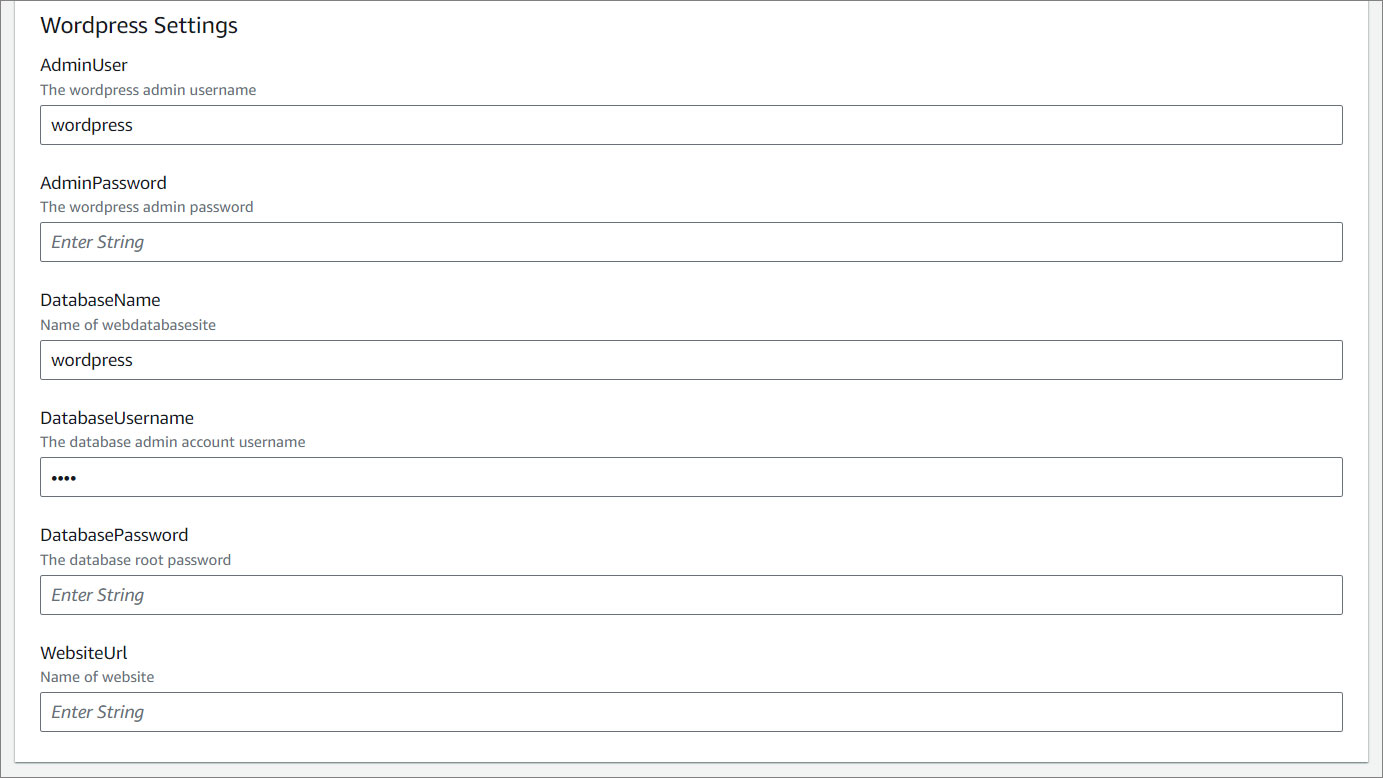
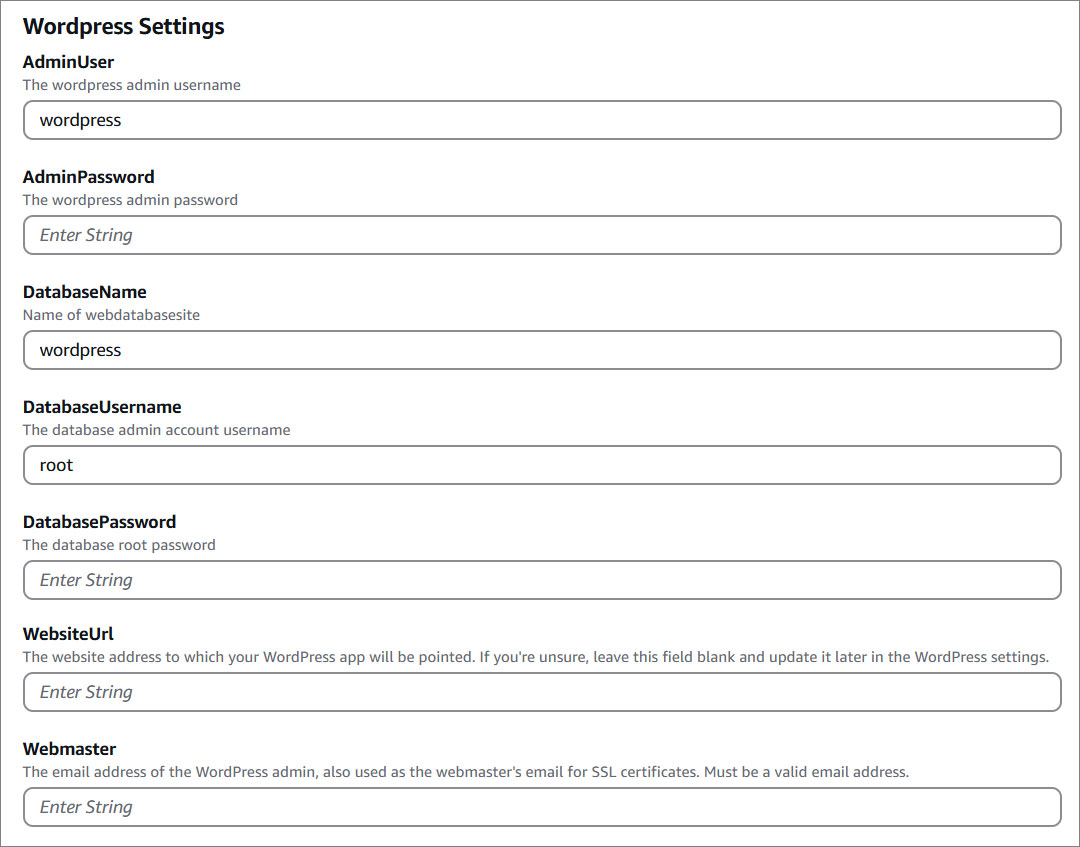
Update wordpress and tutorials.

Changed region(s): [[0.0, 0.0, 1.0, 0.9871]]

diff --git a/src/tutorials/wordpress/index.md b/src/tutorials/wordpress/index.md
@@ -74,11 +74,76 @@ If your AWS region is different from `us-east-1`, make sure to select your speci
 
 2. Click <span class="text-orange">**Next**</span>.
 
-3. Follow the steps.
+#### Provide a stack name
+
+1. Stack name must be 1 to 128 characters, start with a letter, and only contain alphanumeric characters.
+
+<p><img src="/static/images/tutorials/wordpress/wordpress-cdn-stack-name.jpg" alt="WordPress Pro CDN Create Stack" style="width: 50%;"></p>
+
+##### Parameters
+
+<p><img src="/static/images/tutorials/wordpress/wordpress-cdn-stack-parametes.jpg" alt="WordPress Pro CDN Parameters" style="width: 50%;"></p>
+
+Name   | Description
+---    | ---
+CloudFront Certificate ARN | The AWS Certification Manager certificate ARN for the CloudFront distribution certificate. To find the certificate navigate to **Certificate Manager,** click on the respective domain name and copy the **ARN.**
+Website Domain Name | The domain name of the Wordpress website (e.g. example.com).
+CMS DNS Name | The Wordpress DNS or IP used to login. To find the DNS navigate to **EC2,** click on the respective instance and copy the **Public IPv4 DNS.**
+
+#### Configure Stack Options
+
+1. Add a new tag. **This step is optional**.
+
+Tags (key-value pairs) are used to apply metadata to AWS resources, which can help in organizing, identifying, and categorizing those resources. You can add up to 50 unique tags for each stack. If you need more information about tags, click here.
+
+<p><img src="/static/images/quickstart/stack-tags.jpg" alt="WordPress Pro tags" style="width: 80%;"></p>
+
+2. Specify an existing AWS Identity and Access Management (IAM) service role that CloudFormation can assume. **This step is optional**.
+
+<p><img src="/static/images/quickstart/stack-permissions.jpg" alt="WordPress Pro permissions" style="width: 80%;"></p>
+
+3. Select the stack failure options.
+
+<p><img src="/static/images/quickstart/stack-failure.jpg" alt="WordPress Pro failure" style="width: 80%;"></p>
+
+Name   | Description
+---    | ---
+Behavior on provisioning failure | Specify the roll back behavior for a stack failure..
+Delete newly created resources during a rollback | Specify whether resources that were created during a failed operation should be deleted regardless of their deletion policy.
+
+To learn more about the stack failure options, <a href="https://docs.aws.amazon.com/AWSCloudFormation/latest/UserGuide/stack-failure-options.html" target="_blank">click here :icon-link-external:</a>.
+
+#### Advanced options
+
+1. You can set additional options for your stack, like notification options and a stack policy. For more information, <a href="https://docs.aws.amazon.com/AWSCloudFormation/latest/UserGuide/cfn-console-add-tags.html" target="_blank">click here :icon-link-external:</a>.
+
+<p><img src="/static/images/quickstart/stack-advanced.jpg" alt="WordPress Pro advanced options" style="width: 50%;"></p>
+
+2. Click <span class="text-orange">**Next**</span>.
+
+### Review and create
+
+1. Review your settings.
+
+2. Click <span class="text-orange">**Submit**</span>.
+
+### Stacks
+
+1. <span class="text-orange">**Watch your CDN being created!**</span> Once the status changes from **CREATE_IN_PROGRESS** to **CREATE_COMPLETE**, you can access your CDN.
+
+<p><img src="/static/images/tutorials/wordpress/wp-cdn-stack.jpg" alt="WordPress Pro CDN Stack" style="width: 70%;"></p>
 
 {% endtab %}
 
 {% endtabs %}
+
+<!-- ## Point Domain
+
+1. Navigate to **CloudFront** by searching for it in the Services menu.
+
+2. Click on the corresponding **Distribution**.
+
+3.  -->
 
 <hr>
 

diff --git a/src/quickstart/cms/wordpress/index.md b/src/quickstart/cms/wordpress/index.md
@@ -108,9 +108,26 @@ AdminPassword | The admin password to login onto your WordPress.
 DatabaseName | The web database name.
 DatabaseUsername | The database admin account username.
 DatabasePassword | The database root password.
-WebsiteUrl | Name of initial WordPress website.
+WebsiteUrl | The website address to which your WordPress app will be pointed. If you're unsure, leave this field blank and update it later in the WordPress settings.
+Webmaster | The email address of the WordPress admin, also used as the webmaster's email for SSL certificates. Must be a valid email address.
 
-3. Click <span class="text-orange">**Next**</span>.
+3. Optional: SSO.
+
+<p><img src="/static/images/wordpress/wordpress-optional-settings.jpg" alt="WordPress Pro Optional Settings" style="width: 50%;"></p>
+
+Name   | Description
+---    | ---
+SsoClientId | The client ID registered with your OpenID Connect (OIDC) provider.
+SsoClientSecret | The client secret associated with the registered client ID at your OpenID Connect (OIDC) provider.
+SsoAuthorizeUrl | The authorization URL used for OpenID Connect authentication requests. This value can be found in the provider's Well-Known Configuration Endpoint endpoint under the "authorization_endpoint" field.
+SsoAccessToken | The endpoint URL for obtaining the access token in the OpenID Connect flow. This value can be found in the provider's Well-Known Configuration Endpoint endpoint under the "token_endpoint" field.
+SsoResourceOwner | The URL to retrieve user information from the OpenID Connect provider. This value can be found in the provider's Well-Known Configuration Endpoint endpoint under the "userinfo_endpoint" field.
+SsoApiToken | The API token used when connecting your WordPress app to Solodev Cloud. If you are not using Solodev Cloud, you can leave this empty. To find your API token, go to your Profile and click on "API Tokens."
+SsoScope | The scope that define the permissions requested during the OpenID Connect authentication. Specify the scopes separated by spaces. This app requires at least the following scopes: "openid email profile roles."
+SsoRedirectUri | The URI where users will be redirected after successful authentication. For this integration, it must be set to [https://your-wordpress-domain.com/wp-json/wp_SSO/login](https://your-wordpress-domain.com/wp-json/wp_SSO/login).
+SsoKeySet | The URL where the public keys for verifying the OpenID Connect tokens are hosted. This value can be found in the provider's Well-Known Configuration Endpoint endpoint under the "jwks_uri" field.
+
+4. Click <span class="text-orange">**Next**</span>.
 
 #### Configure Stack Options
 

diff --git a/src/quickstart/cms/drupal/index.md b/src/quickstart/cms/drupal/index.md
@@ -340,23 +340,23 @@ Ensure that your browser's address bar includes "http://" instead of "https://."
 
 {% endtabs %}
 
-<!-- ## Next Steps -->
+## Next Steps
 
-<!-- <div class="card-lg" style="margin-bottom: 1.5rem;">
+<div class="card-lg" style="margin-bottom: 1.5rem;">
   <div style="display: flex; align-items: center; justify-content: start;">
     <div style="width: 120px;">
       <img src="/static/images/logos/cdn-wordpress.png" alt="Drupal CDN Logo" style="width: 100%;">
     </div>
     <div style="margin-left: 30px; width: 80%;">
       <h2>Drupal CDN</h2>
-      <p style="font-size: .9rem;"><strong>Prerequisites:</strong> you need a <a href="https://console.aws.amazon.com/acm/" target="_blank">certificate</a> with the name of site you are trying to launch <br>and have an existing <a href="/quickstart/cms/wordpress" target="_blank">Drupal</a>.</p>
+      <p style="font-size: .9rem;"><strong>Prerequisites:</strong> you need a <a href="https://console.aws.amazon.com/acm/" target="_blank">certificate</a> with the name of site you are trying to launch <br>and have an existing <a href="/quickstart/cms/drupal" target="_blank">Drupal</a>.</p>
       <p class="mt-2">Boost your site's speed by delivering content from servers near your visitors.</p>
     </div>
   </div>
   <div>
-    <a href="https://us-east-1.console.aws.amazon.com/cloudformation/home?region=us-east-1#/stacks/create?stackName=cms-cdn&templateURL=https://s3://wordpress-release/cloudformation/cloudfront-wordpress.yaml" class="btn-orange-lg" target="_blank">LAUNCH <img src="/static/images/icons/circle-play-solid.svg" style="width: 16px; margin-left: 1rem;"></a>
+    <a href="https://us-east-1.console.aws.amazon.com/cloudformation/home?region=us-east-1#/stacks/create?stackName=drupal-cdn&templateURL=https://drupal-release.s3.us-east-1.amazonaws.com/cloudformation/cloudfront-drupal.yaml" class="btn-orange-lg" target="_blank">LAUNCH <img src="/static/images/icons/circle-play-solid.svg" style="width: 16px; margin-left: 1rem;"></a>
   </div>
-</div> -->
+</div>
 
 <style>
   .card-lg {

diff --git a/src/quickstart/cms/cdn/index.md b/src/quickstart/cms/cdn/index.md
@@ -56,7 +56,7 @@ A Content Delivery Network (CDN) is a network of servers spread out across diffe
     </div>
   </div>
   <div>
-    <a href="https://us-east-1.console.aws.amazon.com/cloudformation/home?region=us-east-1#/stacks/create?stackName=cms-cdn&templateURL=https://s3.amazonaws.com/drupal-release/cloudformation/cloudfront-drupal.yaml" class="btn-orange-lg" target="_blank">LAUNCH <img src="/static/images/icons/circle-play-solid.svg" style="width: 16px; margin-left: 1rem;"></a>
+    <a href="https://us-east-1.console.aws.amazon.com/cloudformation/home?region=us-east-1#/stacks/create?stackName=drupal-cdn&templateURL=https://drupal-release.s3.us-east-1.amazonaws.com/cloudformation/cloudfront-drupal.yaml" class="btn-orange-lg" target="_blank">LAUNCH <img src="/static/images/icons/circle-play-solid.svg" style="width: 16px; margin-left: 1rem;"></a>
   </div>
 </div>
 
